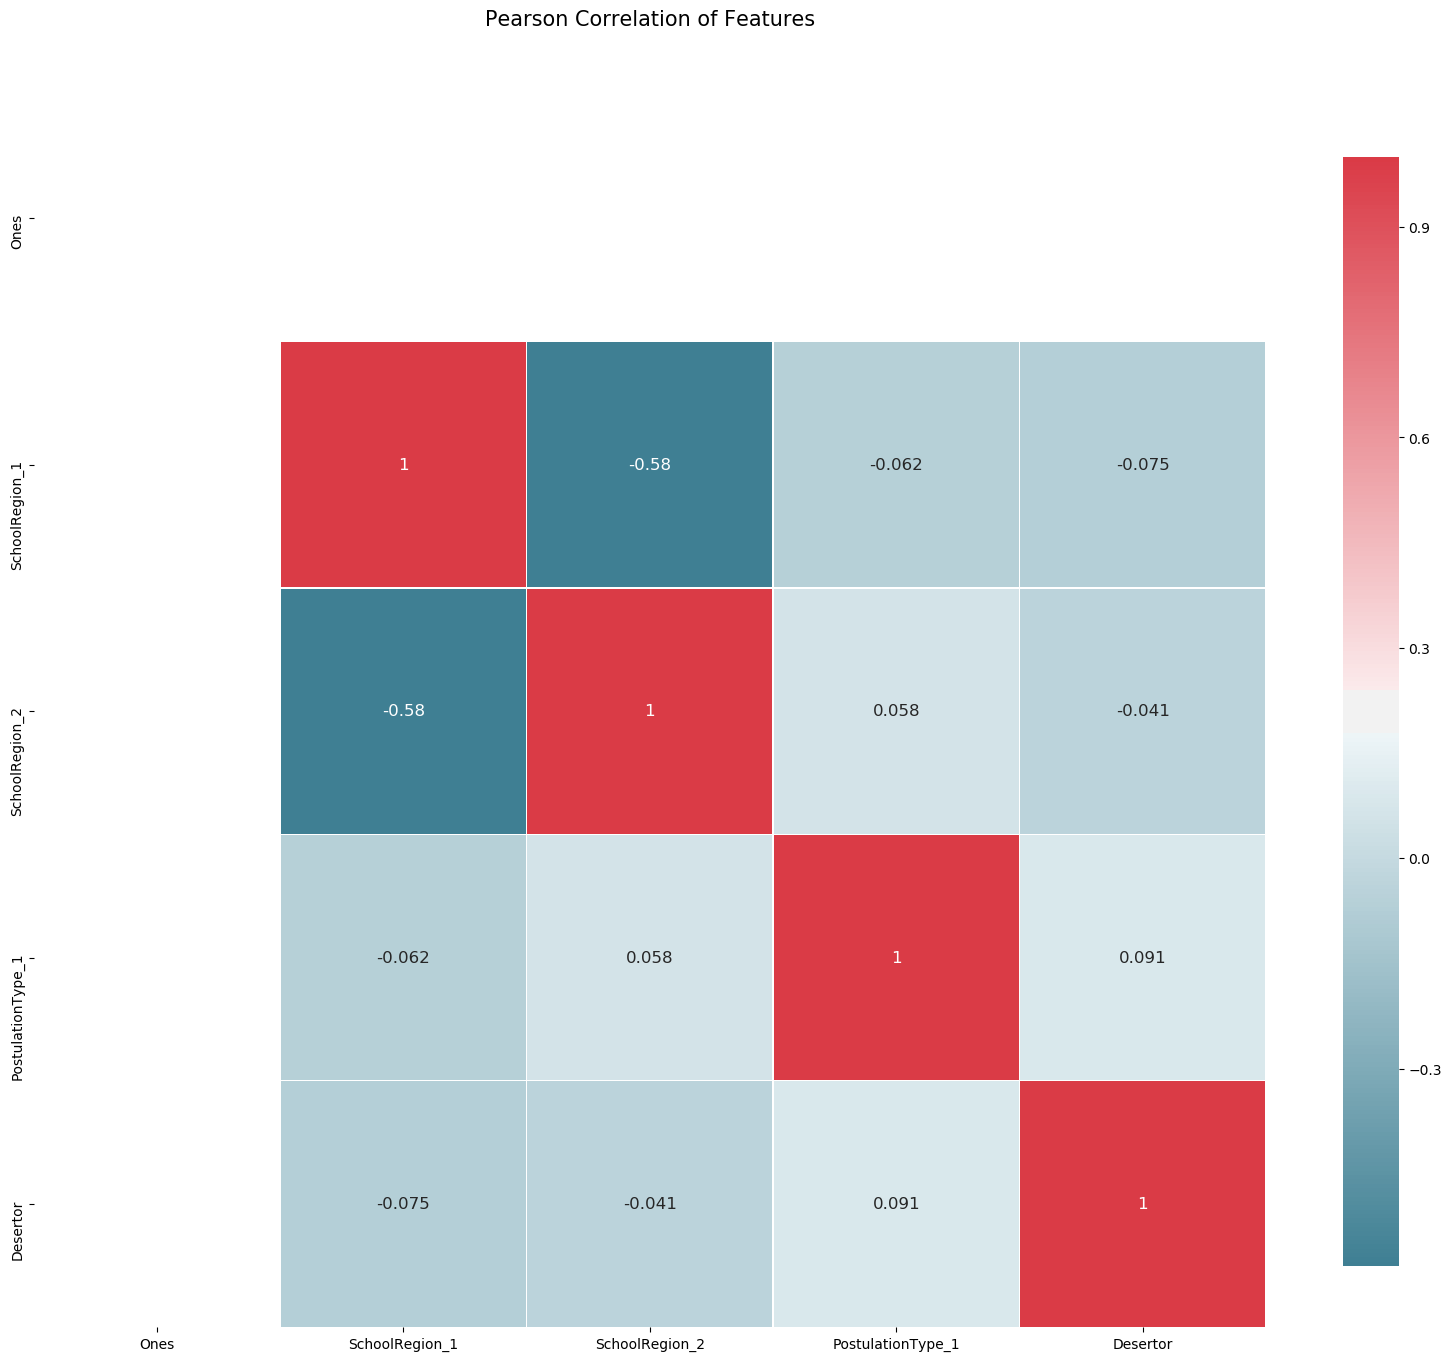
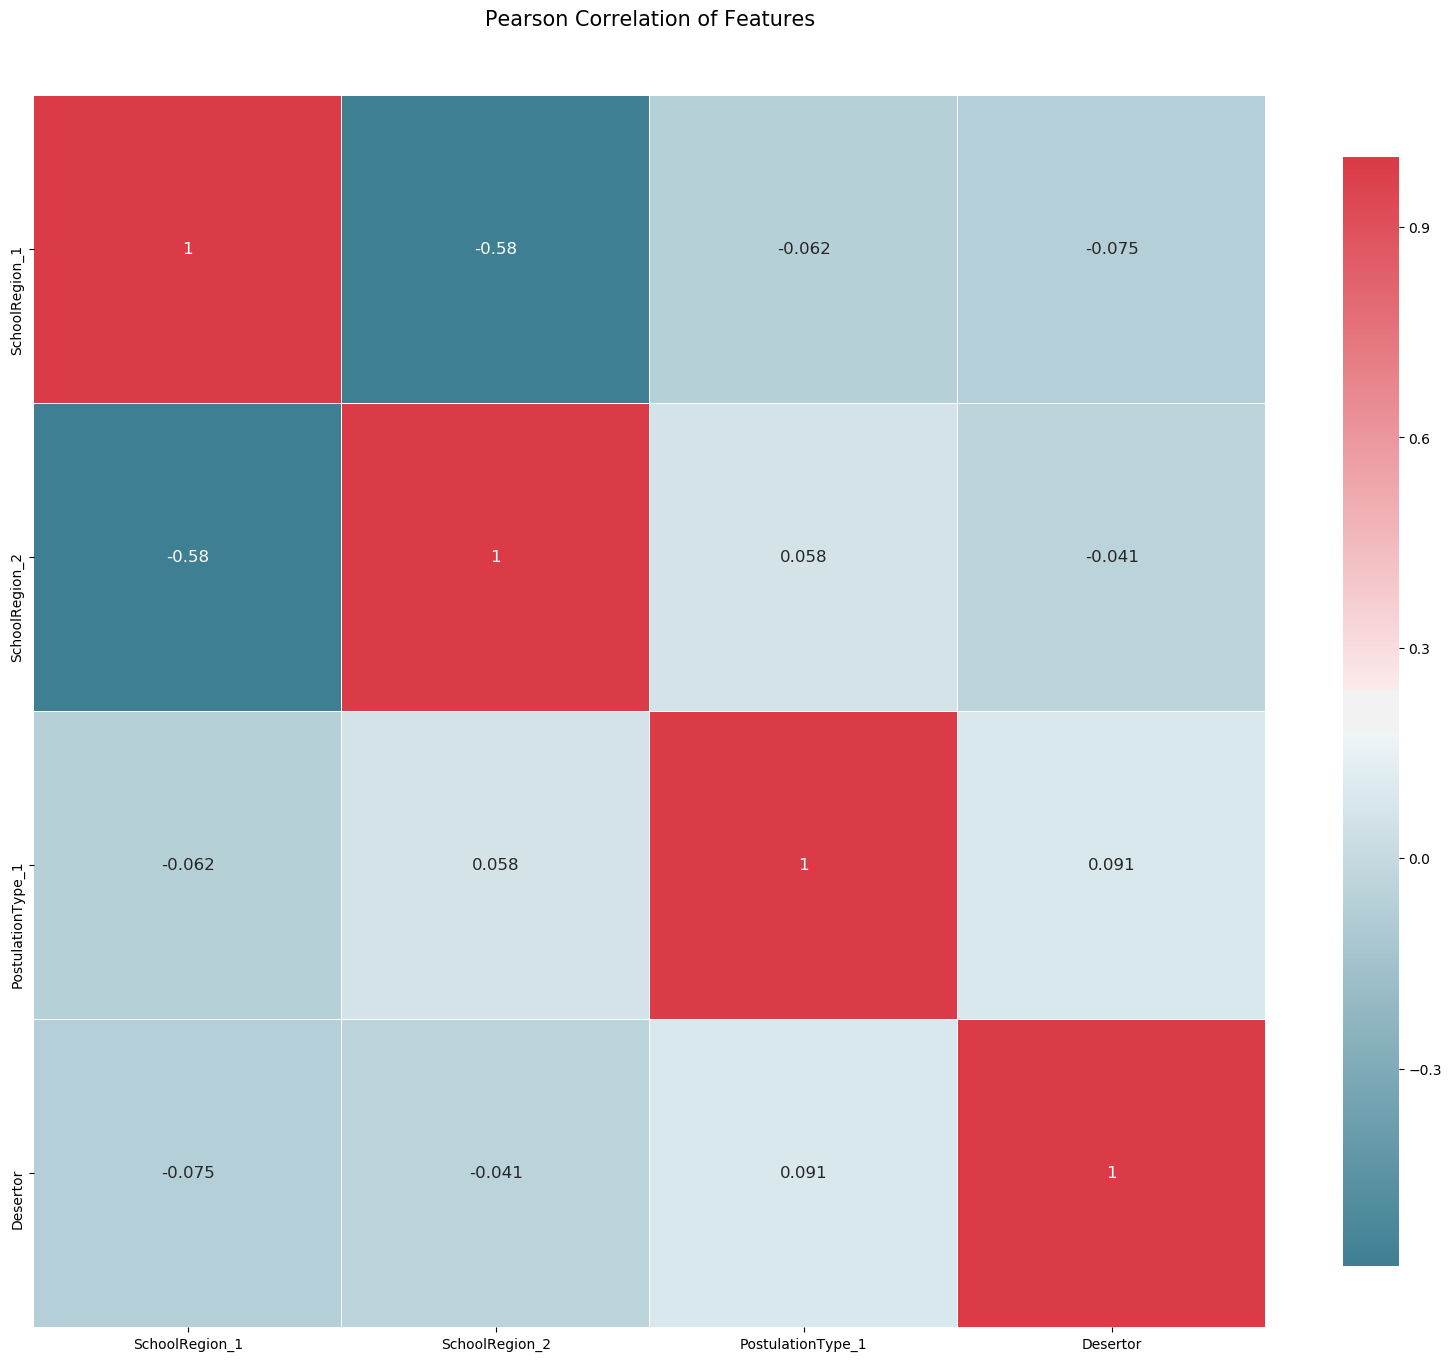
removed ones from correlation map in MLR

diff --git a/env/Include/ml/optimize.py b/env/Include/ml/optimize.py
@@ -71,17 +71,9 @@ def backwardElimination(X, Xcols, y, folderPath, thisModelName, config):
             break
   
   # Remove ones column
-  # Xcols.remove('Ones')
+  Xcols.remove('Ones')
   # Set dropped columns from last to first
   cols2DropDesc = cols2DropAsc[::-1]
-
-  # Write Final Optimization Results
-  # fOpt = open(outDir +"/"+ str(len(Xcols)) + "_Optimization_Summary.txt", 'w+')
-  # fOpt.write("Columns on Logic:\n")
-  # fOpt.write("/".join(Xcols) + "\n")
-  # fOpt.write(str(model_OLS.summary()))
-  # fOpt.close()
-  # print(outDir +"/"+ str(len(Xcols)) + "_Optimization_Summary.txt Created")
 
   # Write Final Optimization Results
   for js in excelJson:
